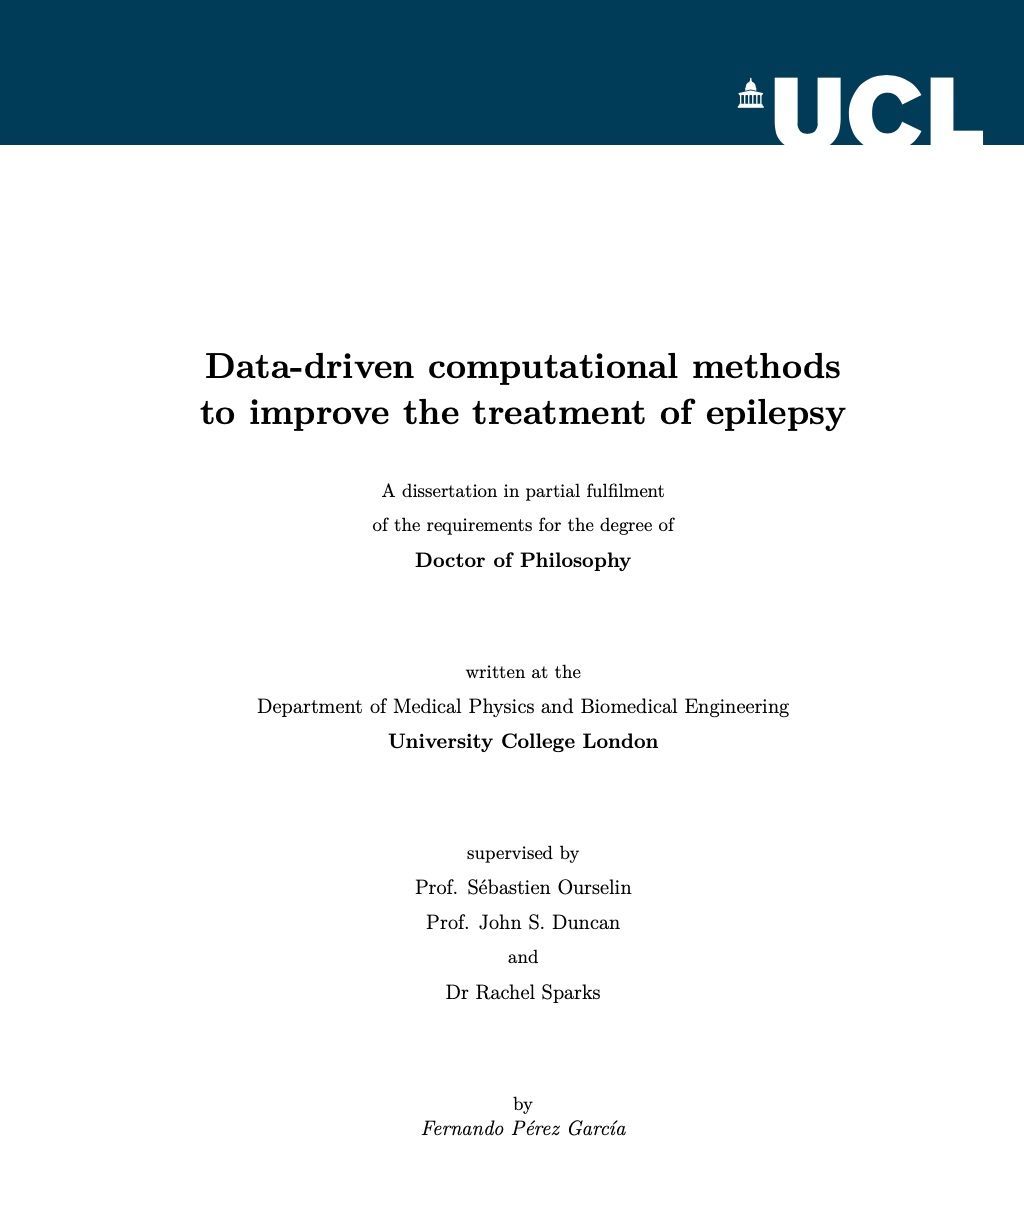
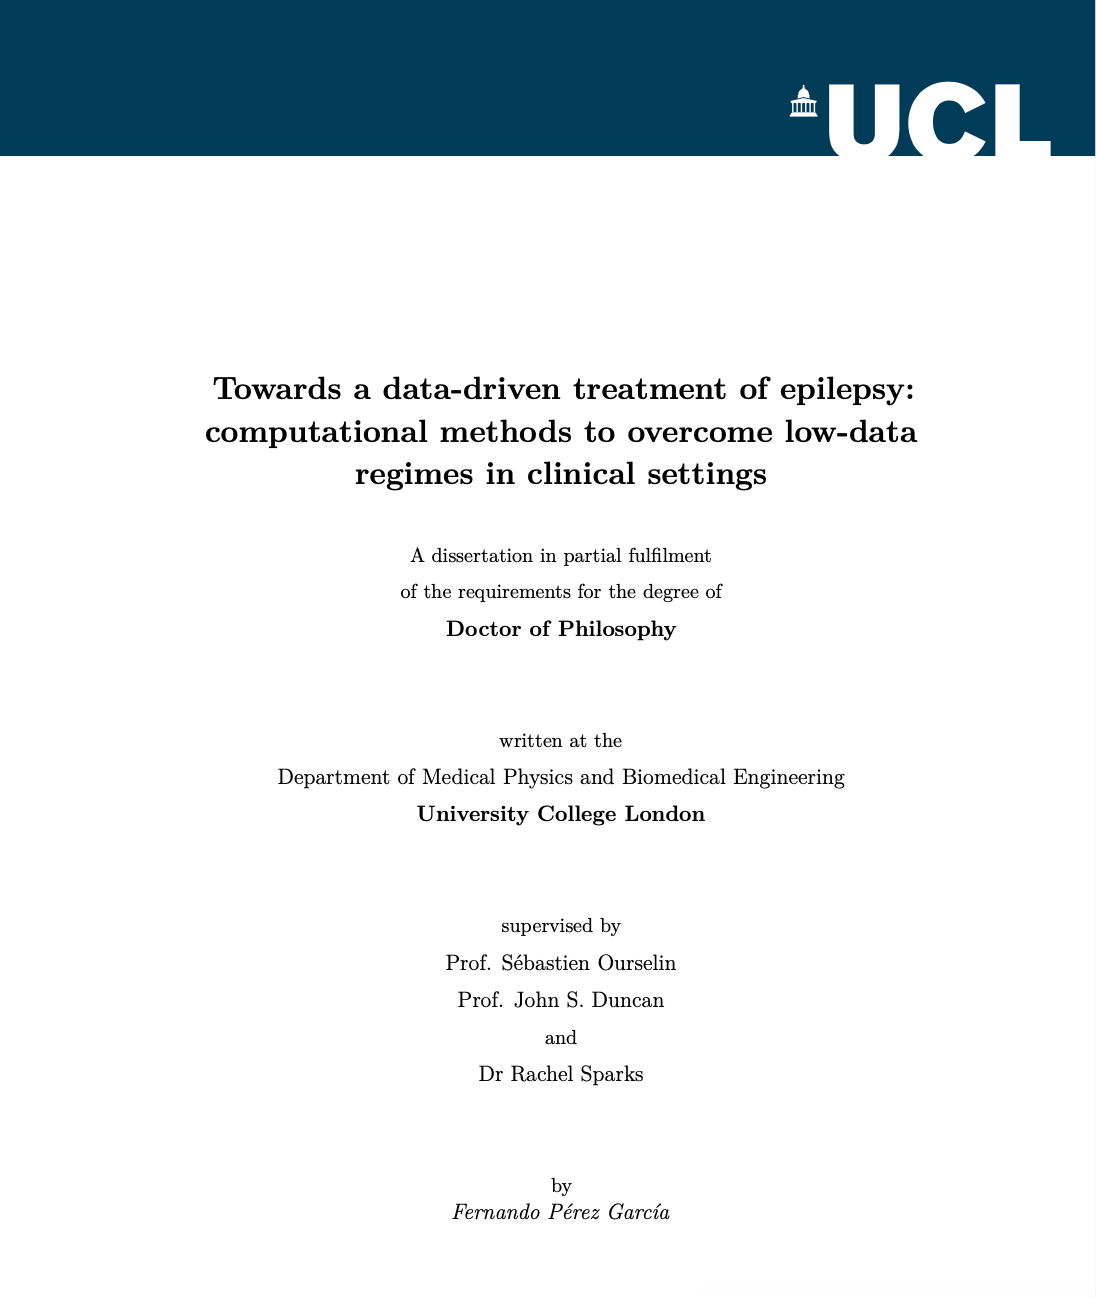
Update screenshot

diff --git a/tex/frontmatter/title_page.tex b/tex/frontmatter/title_page.tex
@@ -8,7 +8,7 @@
 	\begin{center}
 		\vspace*{2.5cm}
 
-		\huge{\bfseries \thetitle}\\%
+		\LARGE{\bfseries \thetitle}\\%
 		\vspace*{1cm}
 
 		\normalsize{A dissertation in partial fulfilment}\\%
